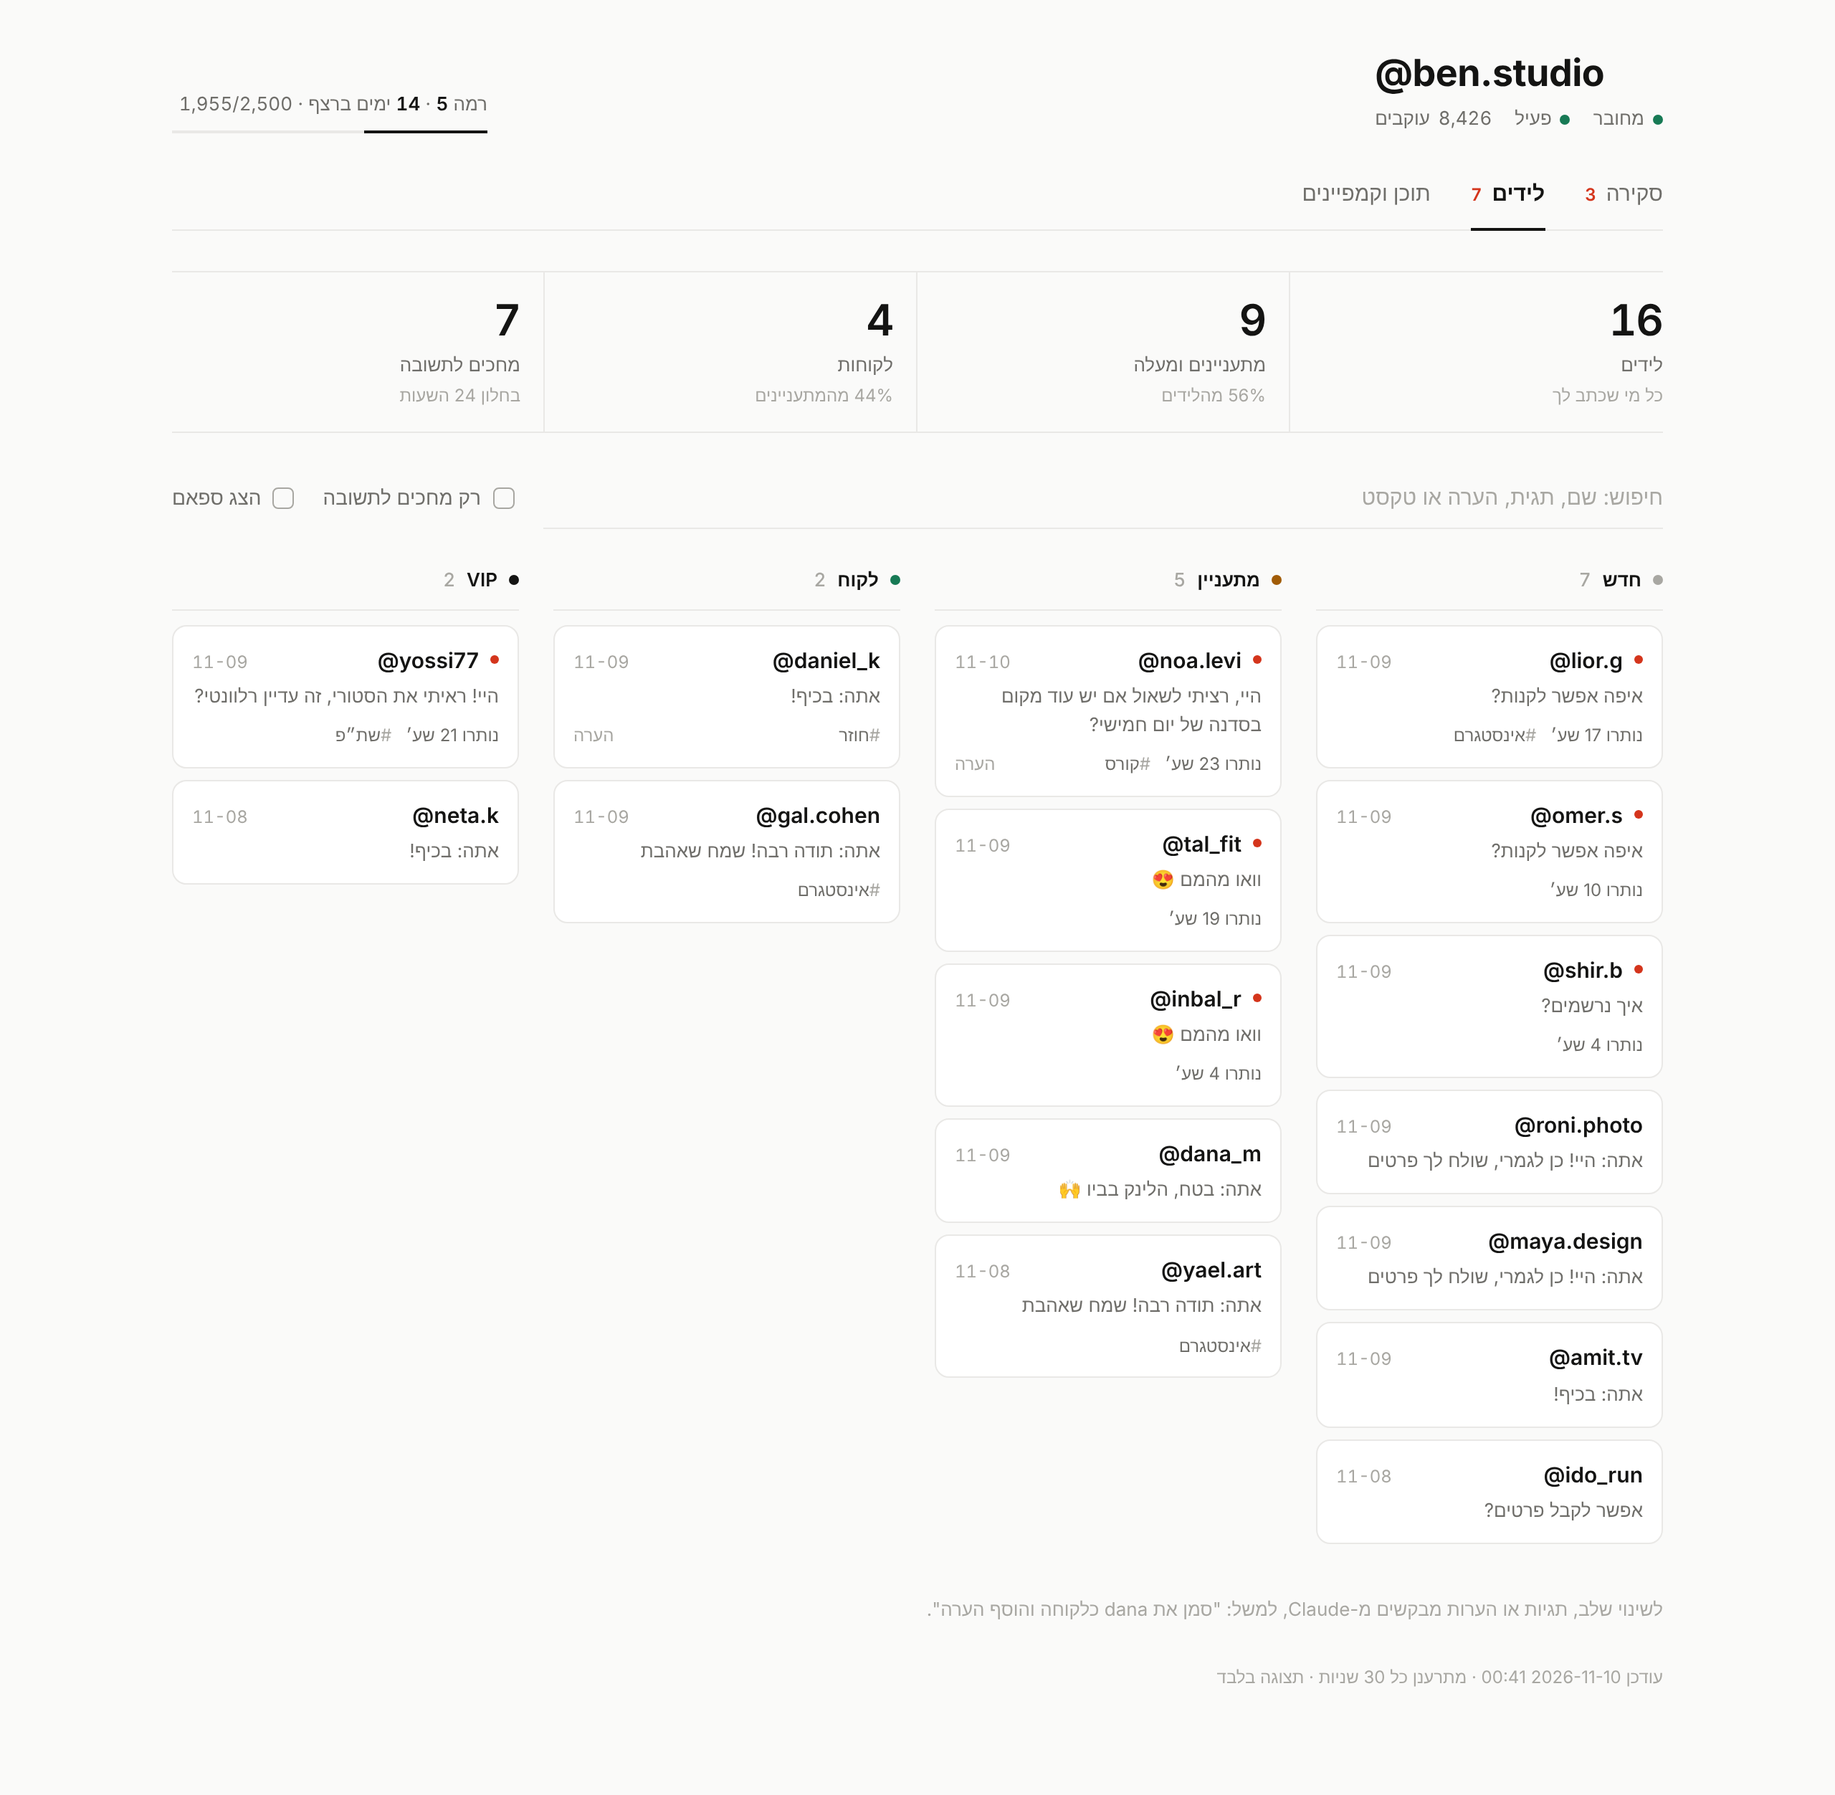
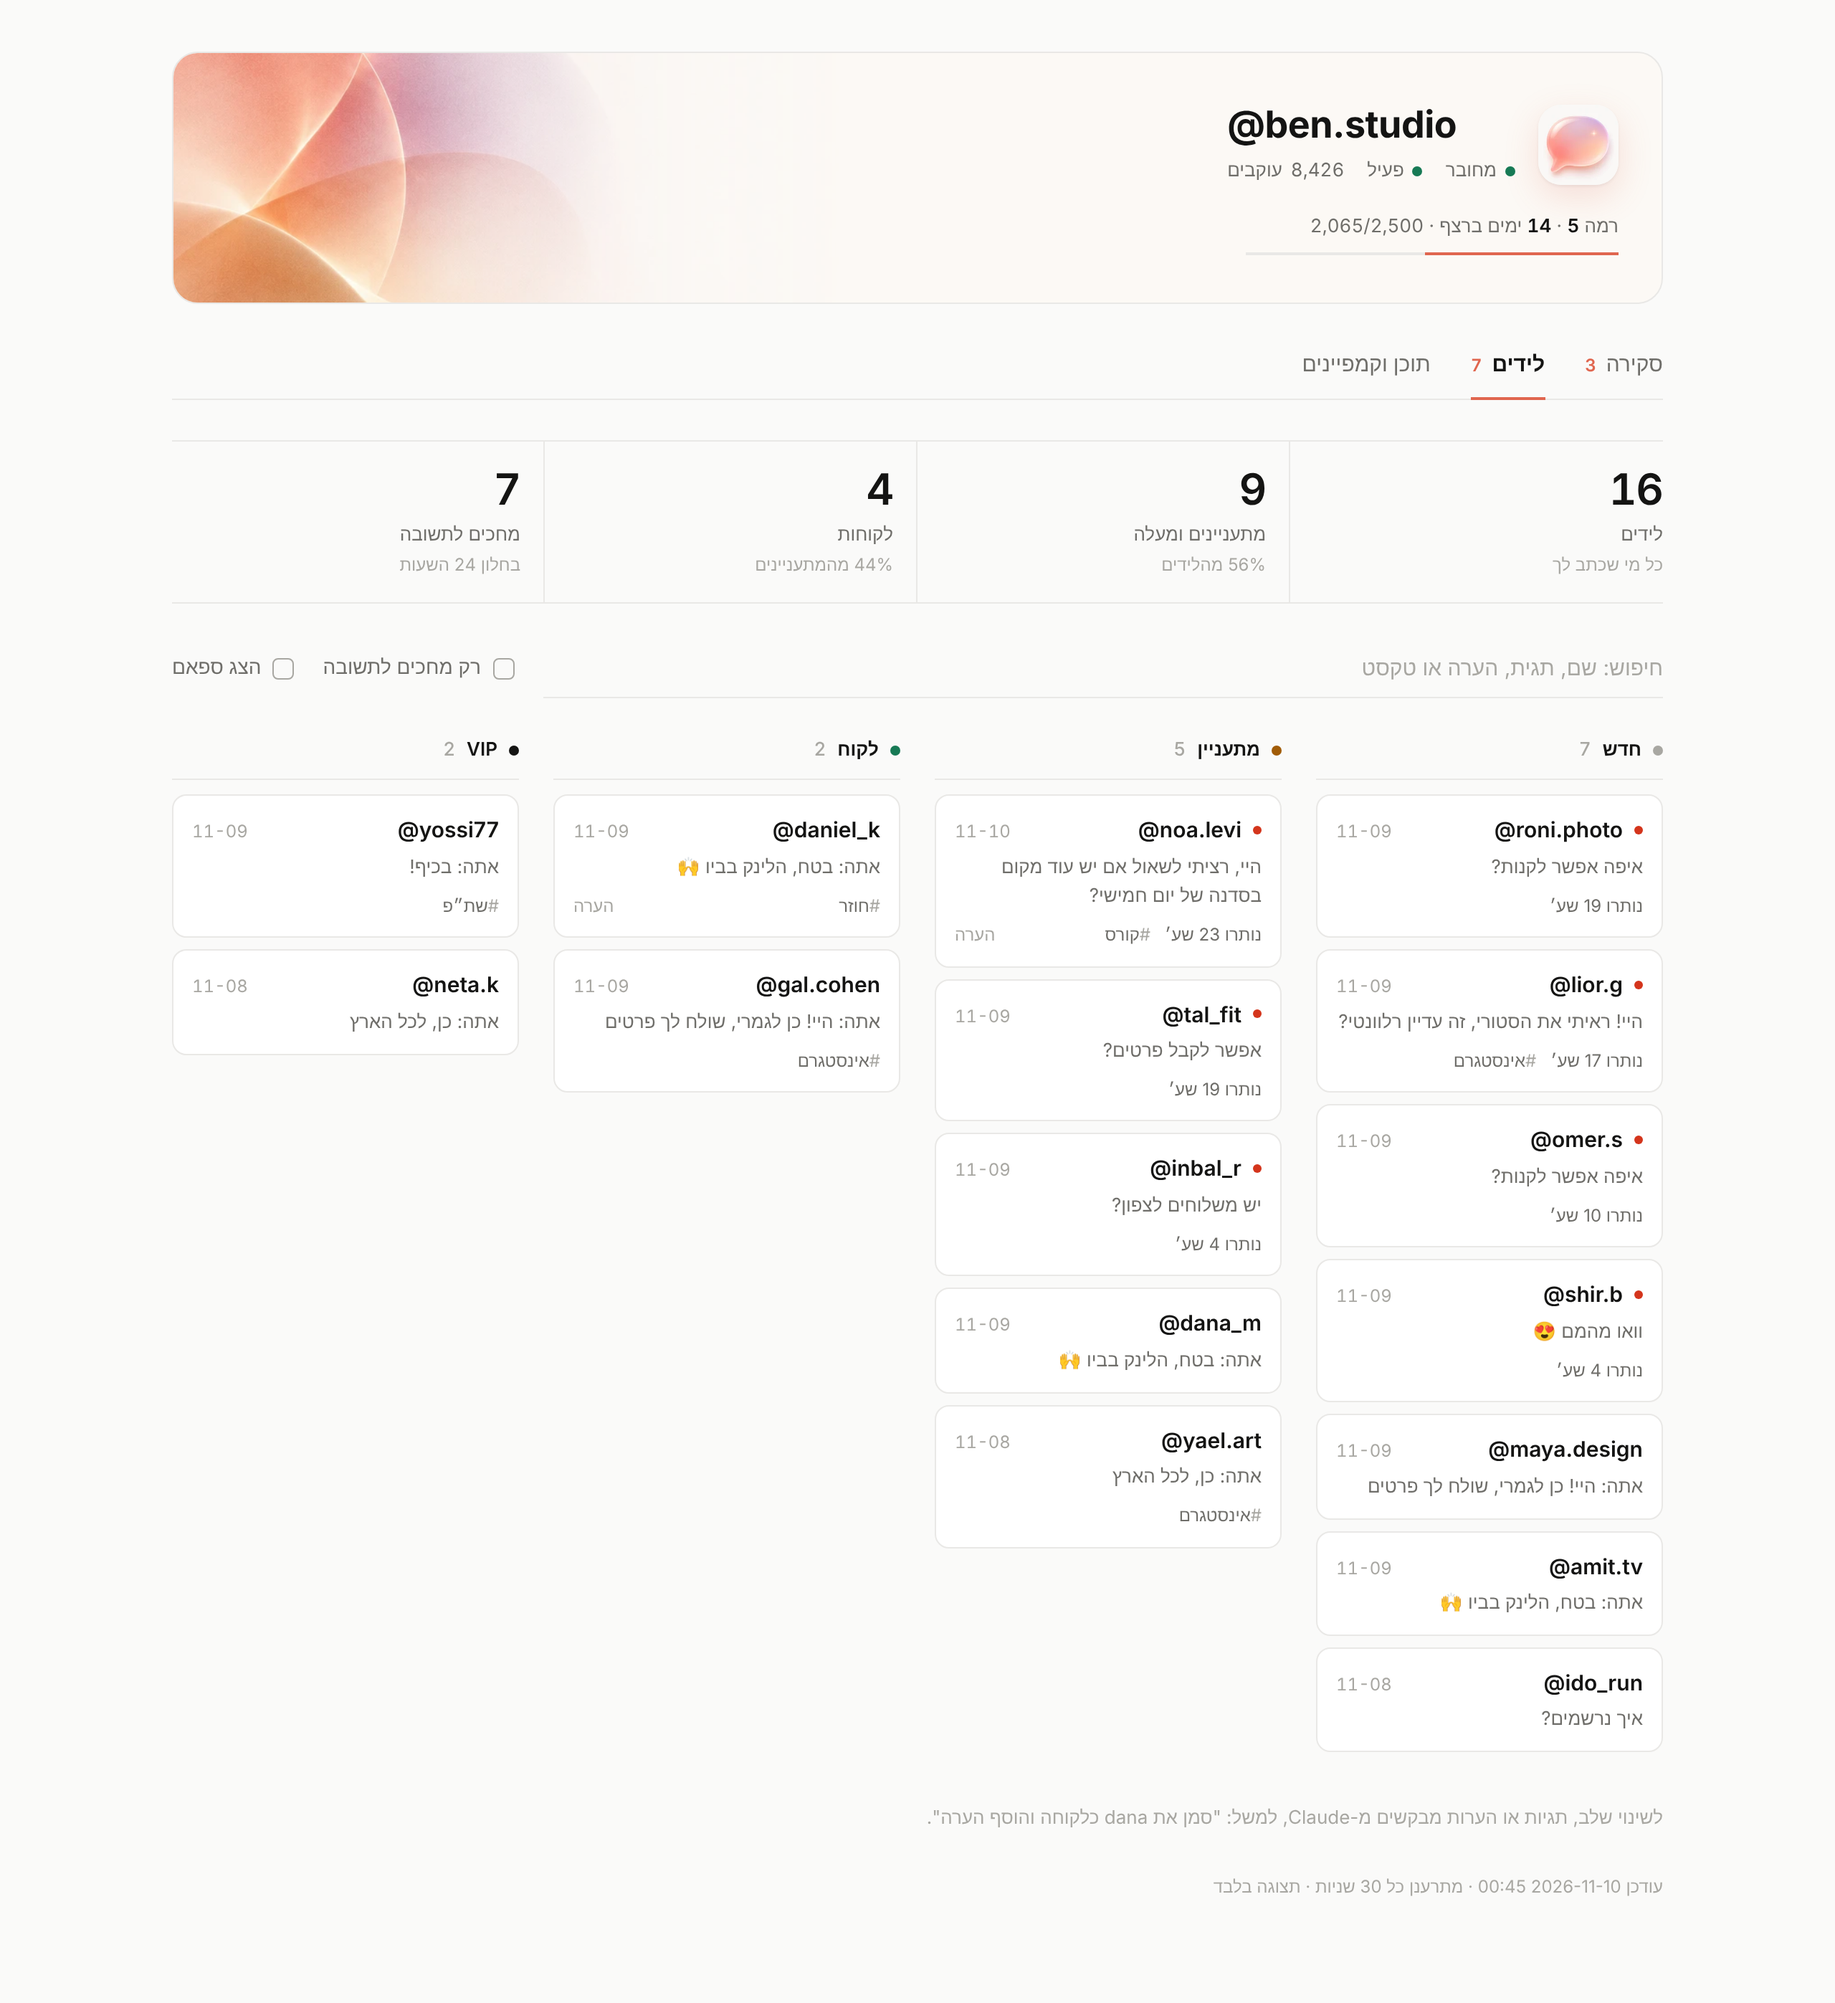
Add generated artwork to the dashboard
Header illustration in light and dark variants, an app icon and favicon,
and an empty-state illustration, bundled in src/assets and served behind
the dashboard secret. One warm accent colour for the active tab, badges
and the progress line. Layout and data are unchanged.

Claude-Session: https://claude.ai/code/session_01Fj939kdxSM9DQV1f9kEMyv

diff --git a/src/dashboard.html b/src/dashboard.html
@@ -6,18 +6,20 @@
 <meta name="robots" content="noindex, nofollow">
 <meta name="color-scheme" content="light dark">
 <title>IG Agent</title>
+<link rel="icon" type="image/png" href="assets/favicon.png">
 <style>
   :root {
     --bg: #fafaf9; --surface: #ffffff; --line: #e9e8e6; --hover: #f3f2f0;
     --text: #141413; --muted: #6f6e6a; --dim: #a8a7a2;
-    --alert: #d4351c; --ok: #177a55; --warn: #a15c07;
-    --radius: 10px;
+    --alert: #d4351c; --ok: #177a55; --warn: #a15c07; --accent: #e0664f;
+    --radius: 10px; --art: url(assets/header-light.webp); --hero: #fcf9f5;
   }
   @media (prefers-color-scheme: dark) {
     :root {
       --bg: #111110; --surface: #191918; --line: #2a2a28; --hover: #20201f;
       --text: #f1f0ee; --muted: #a09f9a; --dim: #6b6a66;
-      --alert: #f0705a; --ok: #4cc497; --warn: #e0a64a;
+      --alert: #f0705a; --ok: #4cc497; --warn: #e0a64a; --accent: #f08a6e;
+      --art: url(assets/header-dark.webp); --hero: #0d0c0b;
     }
   }
   * { box-sizing: border-box; }
@@ -31,23 +33,31 @@
   :focus-visible { outline: 2px solid var(--text); outline-offset: 2px; border-radius: 4px; }
 
   /* header */
-  .head { display: flex; align-items: flex-end; justify-content: space-between; gap: 20px; flex-wrap: wrap; }
+  .head { position: relative; display: flex; flex-direction: column; justify-content: center; gap: 18px; padding: 30px 30px 28px; min-height: 176px; border-radius: 18px; border: 1px solid var(--line); background: var(--hero); overflow: hidden; }
+  /* Generated artwork sits on the far (left) side and fades out before the text. */
+  .head::before { content: ""; position: absolute; inset: 0 auto 0 0; width: min(46%, 520px); background: var(--art) left center / cover no-repeat; -webkit-mask-image: linear-gradient(to right, #000 35%, transparent 100%); mask-image: linear-gradient(to right, #000 35%, transparent 100%); pointer-events: none; }
+  .head > * { position: relative; }
+  .ident { display: flex; align-items: center; gap: 16px; min-width: 0; }
+  .logo { width: 56px; height: 56px; border-radius: 16px; flex: none; object-fit: cover; box-shadow: 0 1px 2px rgba(0, 0, 0, .06), 0 8px 24px rgba(224, 102, 79, .18); }
+  .art-empty { display: flex; align-items: center; gap: 8px; padding: 6px 0; color: var(--muted); font-size: 14px; }
+  .art-empty img { width: 190px; height: auto; mix-blend-mode: multiply; filter: brightness(1.035) contrast(1.04); flex: none; }
+  @media (prefers-color-scheme: dark) { .art-empty img { display: none; } }
   .name { font-size: 26px; font-weight: 650; letter-spacing: -.01em; direction: ltr; unicode-bidi: isolate; line-height: 1.2; }
   .status { display: flex; gap: 16px; flex-wrap: wrap; margin-top: 6px; font-size: 13px; color: var(--muted); }
   .status span { display: inline-flex; align-items: center; gap: 6px; }
   .led { width: 7px; height: 7px; border-radius: 50%; background: var(--ok); }
   .led.bad { background: var(--alert); } .led.warn { background: var(--warn); }
-  .progress { min-width: 220px; font-size: 13px; color: var(--muted); }
+  .progress { width: 260px; max-width: 100%; font-size: 13px; color: var(--muted); }
   .progress b { color: var(--text); font-weight: 600; }
   .track { height: 2px; background: var(--line); margin-top: 8px; }
-  .track i { display: block; height: 100%; background: var(--text); transition: width .5s ease; }
+  .track i { display: block; height: 100%; background: var(--accent); transition: width .5s ease; }
 
   /* tabs */
   .tabs { display: flex; gap: 28px; border-bottom: 1px solid var(--line); margin: 30px 0 28px; }
   .tab { background: none; border: 0; padding: 0 0 12px; margin-bottom: -1px; cursor: pointer; color: var(--muted); border-bottom: 2px solid transparent; font-weight: 500; display: inline-flex; gap: 7px; align-items: baseline; }
   .tab:hover { color: var(--text); }
-  .tab.on { color: var(--text); border-bottom-color: var(--text); font-weight: 600; }
-  .tab .badge { font-size: 12px; color: var(--alert); font-weight: 600; }
+  .tab.on { color: var(--text); border-bottom-color: var(--accent); font-weight: 600; }
+  .tab .badge { font-size: 12px; color: var(--accent); font-weight: 600; }
 
   /* sections */
   section { margin-bottom: 40px; }
@@ -168,6 +178,7 @@
   @media (max-width: 600px) {
     .wrap { padding: 24px 16px 56px; }
     .name { font-size: 22px; } .progress { min-width: 0; width: 100%; }
+    .head { padding: 22px 20px 20px; min-height: 0; } .head::before { width: 42%; opacity: .7; } .logo { width: 46px; height: 46px; border-radius: 13px; }
     .tabs { gap: 20px; margin: 22px 0; }
     .kpis { grid-template-columns: repeat(2, 1fr); }
     .kpi { border-inline-start: 0 !important; padding-inline-start: 0 !important; border-top: 1px solid var(--line); }
@@ -216,6 +227,7 @@
   const stageTag = (k) => { const s = stageOf(k); return h('span', { class: 'stage', style: `--c:${s[2]}` }, h('i'), s[1]); };
   const state = { tab: location.hash.slice(1) || 'overview', q: '', waiting: false, spam: false, open: null, data: null };
 
+  const artEmpty = (text) => h('div', { class: 'art-empty' }, h('img', { src: 'assets/empty.webp', alt: '' }), h('span', null, text));
   const section = (title, count, ...body) => h('section', null, h('h2', null, title, count != null ? h('span', { class: 'count num' }, count) : null), ...body);
 
   // ---------- header ----------
@@ -223,13 +235,13 @@
     const g = d.game, a = d.account;
     const pct = Math.min(1, (g.xp - g.level_floor) / Math.max(1, g.level_next - g.level_floor));
     return h('div', { class: 'head' },
-      h('div', null,
+      h('div', { class: 'ident' }, h('img', { class: 'logo', src: 'assets/icon.webp', alt: '' }), h('div', { style: 'min-width:0' },
         h('div', { class: 'name' }, a.username ? '@' + a.username : 'IG Agent'),
         h('div', { class: 'status' },
           h('span', null, h('i', { class: 'led' + (a.connected ? '' : ' bad') }), a.connected ? 'מחובר' : 'לא מחובר'),
           h('span', null, h('i', { class: 'led' + (a.paused ? ' warn' : '') }), a.paused ? 'מושהה' : 'פעיל'),
           a.followers != null && h('span', null, h('span', { class: 'num' }, n(a.followers)), 'עוקבים'),
-          (d.health.auto_send_dm || d.health.auto_send_comments) && h('span', { style: 'color:var(--warn)' }, 'שליחה אוטומטית דולקת'))),
+          (d.health.auto_send_dm || d.health.auto_send_comments) && h('span', { style: 'color:var(--warn)' }, 'שליחה אוטומטית דולקת')))),
       h('div', { class: 'progress' },
         h('div', null, 'רמה ', h('b', { class: 'num' }, g.level), ' · ', h('b', { class: 'num' }, g.streak), g.streak === 1 ? ' יום ברצף' : ' ימים ברצף', ' · ', h('span', { class: 'num' }, `${n(g.xp)}/${n(g.level_next)}`)),
         h('div', { class: 'track' }, h('i', { style: `width:${Math.round(pct * 100)}%` }))));
@@ -272,7 +284,7 @@
         p.window_ms != null ? timer(p.window_ms) : h('span', { class: 'meta num' }, p.created.slice(5))),
       h('div', { class: 'quote' }, p.incoming || ''),
       h('div', { class: 'draft' }, p.draft)));
-    return section('מחכה לאישור שלך בטלגרם', d.pending.length, items.length ? items : h('div', { class: 'empty' }, 'אין טיוטות שמחכות.'));
+    return section('מחכה לאישור שלך בטלגרם', d.pending.length, items.length ? items : artEmpty('הכל טופל. אין טיוטות שמחכות לך.'));
   }
 
   function chart(d) {
@@ -390,7 +402,7 @@
       return b;
     };
     return h('div', null, funnel(d), h('div', { class: 'toolbar' }, search, toggle('רק מחכים לתשובה', 'waiting'), toggle('הצג ספאם', 'spam')),
-      d.leads.length ? board() : h('div', { class: 'empty' }, 'עוד אין שיחות. מי שיכתוב לך יופיע כאן.'),
+      d.leads.length ? board() : artEmpty('עוד אין שיחות. מי שיכתוב לך יופיע כאן.'),
       h('div', { class: 'hint' }, 'לשינוי שלב, תגיות או הערות מבקשים מ-Claude, למשל: "סמן את dana כלקוחה והוסף הערה".'));
   }
 

diff --git a/src/dashboard.js b/src/dashboard.js
@@ -13,7 +13,8 @@ import * as stats from './stats.js';
 import { listCampaigns } from './campaigns.js';
 import { listScheduled } from './scheduler.js';
 
-const HTML_PATH = path.join(path.dirname(fileURLToPath(import.meta.url)), 'dashboard.html');
+const HERE = path.dirname(fileURLToPath(import.meta.url));
+const HTML_PATH = path.join(HERE, 'dashboard.html');
 const clip = (s, n) => (s && s.length > n ? `${s.slice(0, n)}…` : s || '');
 
 export function dashboardData() {
@@ -135,10 +136,13 @@ dashboardRouter.use('/:secret', (req, res, next) => {
     'X-Robots-Tag': 'noindex, nofollow',
     'Referrer-Policy': 'no-referrer',
     'X-Frame-Options': 'DENY',
-    'Content-Security-Policy': "default-src 'none'; style-src 'unsafe-inline'; script-src 'unsafe-inline'; connect-src 'self'; img-src data:; base-uri 'none'; form-action 'none'",
+    'Content-Security-Policy': "default-src 'none'; style-src 'unsafe-inline'; script-src 'unsafe-inline'; connect-src 'self'; img-src 'self' data:; base-uri 'none'; form-action 'none'",
   });
   next();
 });
+
+// Artwork (header backgrounds, icon, empty-state illustration).
+dashboardRouter.use('/:secret/assets', express.static(path.join(HERE, 'assets'), { index: false, maxAge: '7d' }));
 
 dashboardRouter.get('/:secret/data.json', (_req, res) => res.json(dashboardData()));
 

diff --git a/README.md b/README.md
@@ -124,6 +124,7 @@ docker compose up -d --build
 - **התקדמות:** בראש הדף שורה שקטה עם רמה, רצף ימים פעילים ונקודות (10 לתשובה, 5 למענה לתגובה, 50 לפרסום, 2 להודעת קמפיין),
   ומתחתיה שלוש משימות יומיות: אינבוקס נקי, פרסום היום, מענה לכל התגובות. הכל מחושב מפעילות אמיתית במסד הנתונים.
 - **עיצוב:** מינימליסטי – רקע בהיר, קווים דקים, צבע רק למה שדורש תשומת לב (אדום = מחכה לתשובה). עובר למצב כהה לבד לפי הגדרת המכשיר.
+  הגרפיקה (רקע הכותרת בבהיר ובכהה, האייקון והאיור למצב ריק) נוצרה ב-Higgsfield ונמצאת ב-`src/assets/`; אפשר להחליף את הקבצים בלי לגעת בקוד.
 - **לצפייה בלבד.** אין בו כפתורי שליחה או אישור – אלה נשארים בטלגרם וב-Claude. מי שמשיג את הכתובת יכול לקרוא (כולל תוכן הודעות), אבל לא לפעול.
   לכן הכתובת היא סיסמה. בלי `DASHBOARD_SECRET` הדף כבוי.
 

diff --git a/CHANGELOG.md b/CHANGELOG.md
@@ -1,5 +1,21 @@
 # Changelog
 
+## 1.4.0 - 2026-11-10
+
+### Changed
+- Dashboard artwork generated with Higgsfield and bundled in `src/assets/`
+  (about 110 KB in total): a header illustration in light and dark variants,
+  an app icon / favicon, and an empty-state illustration. Served from
+  `/dash/<secret>/assets/` behind the same secret; CSP now allows `img-src
+  'self'`.
+- One warm accent colour taken from the artwork for the active tab, badges
+  and the progress line. Layout and data are unchanged; still read-only.
+
+### Verified
+- `npm test` 55/55; rendered in Chromium in light and dark mode at 1280px and
+  390px, plus a fresh install with no data: no failed requests, no console
+  errors, no horizontal overflow.
+
 ## 1.3.0 - 2026-11-10
 
 ### Changed
